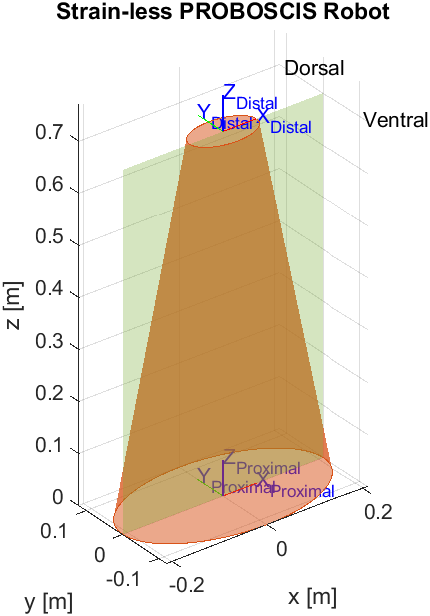
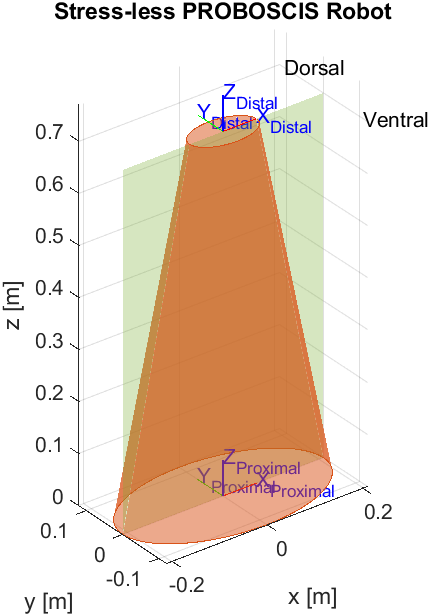
autogen function of actuation matrix

diff --git a/Model/autogen_functions/B_tau_sol1.m b/Model/autogen_functions/B_tau_sol1.m
@@ -1,0 +1,303 @@
+function B_tau = B_tau_sol1(k_x,k_y,k_z,sigma_x,sigma_y,sigma_z,X)
+%B_tau_sol1
+%    B_tau = B_tau_sol1(K_X,K_Y,K_Z,SIGMA_X,SIGMA_Y,SIGMA_Z,X)
+
+%    This function was generated by the Symbolic Math Toolbox version 9.3.
+%    24-Apr-2023 14:50:25
+
+t2 = X.*k_x;
+t3 = X.*k_y;
+t4 = X.^2;
+t5 = X.*2.0e+1;
+t6 = k_z.*2.1e+1;
+t7 = -sigma_y;
+t10 = sqrt(3.0);
+t11 = pi.*4.2e+2;
+t12 = X./5.0;
+t13 = k_x.*8.4e+1;
+t15 = k_z.*3.36e+2;
+t16 = sigma_x.*3.5e+2;
+t17 = X.*pi.*(5.0./7.0);
+t18 = X.*pi.*4.0e+2;
+t21 = X.*k_z.*3.2e+2;
+t23 = X.*(2.0./3.5e+1);
+t24 = X.*(4.0./3.5e+1);
+t25 = k_x.*8.82e+2;
+t26 = k_z.*1.029e+3;
+t27 = k_x.*1.764e+3;
+t28 = k_z.*3.423e+3;
+t29 = sigma_x.*7.0e+2;
+t30 = sigma_z.*7.0e+2;
+t31 = sigma_y.*1.4e+3;
+t32 = sigma_z.*1.4e+3;
+t33 = sigma_y.*4.9e+3;
+t34 = sigma_x.*5.6e+3;
+t35 = X.*pi.*(1.0e+1./7.0);
+t41 = X.*k_z.*9.8e+2;
+t45 = X.*k_z.*3.26e+3;
+t52 = k_y.*9.261e+3;
+t56 = sigma_z.*2.94e+4;
+t63 = X.*k_z.*1.68e+4;
+t65 = X.*sigma_z.*2.8e+4;
+t69 = k_y.*1.5435e+3;
+t73 = X.*sigma_x.*7.0e+4;
+t74 = X.*sigma_y.*1.225e+5;
+t75 = X.*sigma_x.*2.8e+5;
+t76 = X.*sigma_y.*4.9e+5;
+t8 = -t2;
+t9 = k_z.*t5;
+t14 = -t6;
+t19 = t2.*8.0e+1;
+t20 = t3.*3.5e+2;
+t22 = -t11;
+t36 = -t18;
+t38 = -t21;
+t39 = t3.*7.0e+2;
+t40 = t2.*1.4e+3;
+t42 = t2.*1.68e+3;
+t43 = t3.*2.94e+3;
+t44 = t2.*3.36e+3;
+t46 = t2.*4.9e+3;
+t47 = t3.*5.6e+3;
+t48 = cos(t17);
+t49 = sin(t17);
+t50 = -t25;
+t51 = -t28;
+t53 = -t29;
+t54 = -t31;
+t55 = -t33;
+t57 = t5-2.1e+1;
+t59 = -t41;
+t64 = t3.*1.764e+4;
+t66 = cos(t35);
+t67 = sin(t35);
+t68 = t10.*3.5e+1;
+t70 = -t63;
+t72 = -t65;
+t78 = k_y.*t10.*1.47e+2;
+t79 = k_z.*t10.*1.47e+2;
+t80 = -t76;
+t81 = k_z.*t4.*1.6e+4;
+t82 = t10./1.0e+1;
+t84 = t10.*t27;
+t85 = k_y.*t10.*3.087e+3;
+t86 = t3.*t10.*1.4e+2;
+t87 = X.*k_z.*t10.*1.4e+2;
+t88 = X.*t3.*7.14e+4;
+t89 = X.*t2.*1.233e+5;
+t90 = X.*t3.*2.884e+5;
+t91 = X.*t2.*4.916e+5;
+t93 = t10.*2.94e+4;
+t98 = t24-3.0./2.5e+1;
+t99 = t23-3.0./5.0e+1;
+t100 = sigma_y.*t10.*9.8e+3;
+t101 = t10.*t56;
+t102 = t2+t7+4.0./3.5e+1;
+t104 = t3.*t10.*5.88e+3;
+t106 = t10.*(2.1e+1./2.0e+2);
+t112 = t12-2.1e+1./1.0e+2;
+t117 = t2.*t10.*9.8e+3;
+t118 = X.*k_z.*t10.*5.145e+4;
+t138 = X.*t2.*t10.*1.6e+3;
+t139 = X.*t3.*t10.*2.8e+3;
+t156 = k_z.*t4.*t10.*4.9e+4;
+t37 = -t19;
+t58 = -t39;
+t60 = -t43;
+t61 = -t44;
+t62 = -t46;
+t71 = -t64;
+t77 = t48.^2;
+t92 = -t82;
+t94 = t48./5.0;
+t95 = t48.*1.4e+2;
+t96 = t49./5.0;
+t97 = t49.*1.4e+2;
+t105 = -t89;
+t107 = t48.*(4.0./3.5e+1);
+t109 = t48.*5.6e+2;
+t110 = t49.*(4.0./3.5e+1);
+t111 = t49.*5.6e+2;
+t113 = sigma_x.*t48.*2.8e+3;
+t114 = t33.*t48;
+t115 = sigma_x.*t49.*2.8e+3;
+t116 = t33.*t49;
+t120 = abs(t102);
+t123 = t48.*1.47e+4;
+t124 = t49.*1.47e+4;
+t125 = t25.*t66;
+t127 = t25.*t67;
+t129 = t3.*t48.*2.8e+3;
+t130 = t46.*t48;
+t131 = t3.*t49.*2.8e+3;
+t132 = t46.*t49;
+t134 = k_x.*t98;
+t135 = k_x.*t99;
+t136 = k_z.*t98;
+t137 = k_z.*t99;
+t141 = sigma_z.*t48.*-1.47e+4;
+t142 = k_x.*t67.*-8.82e+2;
+t143 = X.*t48.*pi.*1.05e+4;
+t144 = X.*t49.*pi.*1.05e+4;
+t145 = t42.*t66;
+t146 = t43.*t66;
+t147 = X.*k_z.*t48.*8.4e+3;
+t148 = X.*k_z.*t48.*2.5725e+4;
+t150 = X.*sigma_z.*t48.*1.4e+4;
+t151 = t42.*t67;
+t152 = t43.*t67;
+t153 = X.*k_z.*t49.*8.4e+3;
+t154 = X.*k_z.*t49.*2.5725e+4;
+t155 = X.*sigma_z.*t49.*1.4e+4;
+t157 = t66.*t69;
+t158 = t67.*t69;
+t161 = t2.*t66.*-1.68e+3;
+t162 = t3.*t66.*-2.94e+3;
+t165 = t2.*t67.*-1.68e+3;
+t166 = t3.*t67.*-2.94e+3;
+t172 = k_z.*t4.*t48.*8.0e+3;
+t173 = k_z.*t4.*t49.*8.0e+3;
+t174 = k_y.*t66.*(-1.5435e+3);
+t175 = t4.*t48.*pi.*1.0e+4;
+t176 = t4.*t49.*pi.*1.0e+4;
+t177 = X.*t2.*t66.*8.0e+2;
+t179 = X.*t3.*t66.*1.4e+3;
+t181 = k_z.*t4.*t48.*2.45e+4;
+t182 = X.*t2.*t67.*8.0e+2;
+t183 = X.*t3.*t67.*1.4e+3;
+t185 = k_z.*t4.*t49.*2.45e+4;
+t186 = t48.*t57.*pi.*5.0;
+t187 = t49.*t57.*pi.*5.0;
+t188 = k_x.*t48.*t57.*4.0;
+t189 = k_y.*t48.*t57.*7.0;
+t190 = k_z.*t48.*t57.*4.0;
+t191 = k_x.*t49.*t57.*4.0;
+t192 = k_y.*t49.*t57.*7.0;
+t193 = k_z.*t49.*t57.*4.0;
+t197 = t48.*t57.*pi.*2.0e+1;
+t199 = t49.*t57.*pi.*2.0e+1;
+t202 = k_z.*t48.*t57.*4.9e+1;
+t205 = k_z.*t49.*t57.*4.9e+1;
+t216 = k_y.*t48.*t112;
+t217 = k_z.*t48.*t112;
+t218 = k_y.*t49.*t112;
+t219 = k_z.*t49.*t112;
+t223 = t48.*t98.*pi.*(5.0./7.0);
+t224 = t49.*t98.*pi.*(5.0./7.0);
+t225 = t48.*t112.*pi.*(5.0./7.0);
+t227 = t49.*t112.*pi.*(5.0./7.0);
+t228 = -k_y.*(t106-(X.*t10)./1.0e+1);
+t229 = -k_z.*(t106-(X.*t10)./1.0e+1);
+t231 = k_y.*(t106-(X.*t10)./1.0e+1);
+t108 = -t95;
+t122 = -t109;
+t126 = sigma_z.*t123;
+t128 = sigma_z.*t124;
+t133 = -t123;
+t140 = t120.^2;
+t149 = k_z.*t77.*6.93e+2;
+t159 = -t143;
+t160 = -t144;
+t164 = -t150;
+t167 = -t154;
+t168 = -t155;
+t169 = -t134;
+t170 = -t135;
+t171 = X.*k_z.*t77.*6.6e+2;
+t180 = -t172;
+t184 = -t173;
+t194 = -t176;
+t195 = -t179;
+t196 = -t182;
+t198 = -t187;
+t200 = -t189;
+t201 = -t190;
+t203 = -t192;
+t204 = -t193;
+t207 = sigma_x+t3+t136;
+t210 = -t199;
+t211 = -t202;
+t212 = t48.*t134;
+t213 = t48.*t136;
+t214 = t49.*t134;
+t215 = t49.*t136;
+t230 = sigma_x+t3+t82+t137;
+t232 = sigma_x+t3+t92+t137;
+t237 = t2+t7+t229+2.0./3.5e+1;
+t238 = sigma_y+t8+t229-2.0./3.5e+1;
+t245 = t30+t188+t192+7.0e+2;
+t246 = t30+t189+t191+7.0e+2;
+t263 = t53+t58+t97+t186+t190;
+t270 = t33+t62+t111+t197+t202;
+t163 = -t149;
+t178 = -t171;
+t206 = sigma_z+t169+1.0;
+t209 = abs(t207);
+t222 = -t215;
+t233 = abs(t230);
+t234 = abs(t232);
+t239 = abs(t238);
+t240 = abs(t237);
+t243 = sigma_z+t170+t228+1.0;
+t247 = sigma_z+t170+t231+1.0;
+t248 = t30+t188+t203+7.0e+2;
+t249 = t30+t191+t200+7.0e+2;
+t251 = t245.^2;
+t252 = t246.^2;
+t262 = t29+t39+t97+t186+t201;
+t264 = t29+t39+t108+t187+t204;
+t265 = t29+t39+t95+t198+t204;
+t267 = t263.^2;
+t272 = t33+t62+t111+t197+t211;
+t273 = t46+t55+t122+t199+t205;
+t274 = t33+t62+t109+t205+t210;
+t275 = t270.^2;
+t208 = abs(t206);
+t221 = t209.^2;
+t235 = t233.^2;
+t236 = t234.^2;
+t241 = t240.^2;
+t242 = t239.^2;
+t244 = abs(t243);
+t250 = abs(t247);
+t254 = t248.^2;
+t255 = t249.^2;
+t257 = t251.*4.9e+1;
+t258 = t252.*4.9e+1;
+t266 = t262.^2;
+t268 = t264.^2;
+t269 = t265.^2;
+t277 = t272.^2;
+t278 = t273.^2;
+t279 = t274.^2;
+t280 = t267.*4.9e+1;
+t220 = t208.^2;
+t253 = t244.^2;
+t256 = t250.^2;
+t259 = t254.*4.9e+1;
+t260 = t255.*4.9e+1;
+t276 = t266.*4.9e+1;
+t281 = t268.*4.9e+1;
+t282 = t269.*4.9e+1;
+t289 = t257+t278+t280;
+t261 = t140+t220+t221;
+t283 = t236+t241+t253;
+t284 = t235+t242+t256;
+t287 = t258+t277+t281;
+t288 = t260+t275+t282;
+t290 = t259+t276+t279;
+t293 = 1.0./sqrt(t289);
+t271 = 1.0./sqrt(t261);
+t285 = 1.0./sqrt(t283);
+t286 = 1.0./sqrt(t284);
+t291 = 1.0./sqrt(t287);
+t292 = 1.0./sqrt(t288);
+t294 = 1.0./sqrt(t290);
+mt1 = [(t271.*(k_x.*4.41e+2+sigma_z.*3.675e+3-t2.*8.4e+2-X.*sigma_y.*3.0625e+4-X.*sigma_z.*3.5e+3+X.*t2.*3.1025e+4+3.675e+3))./3.0625e+4,X.*t207.*t271,t98.*t207.*t271,t207.*t271,-t102.*t271,t206.*t271,(t286.*(t27+t56+t61+t72+t80+t85+t91-t104+t118+t139-t156+2.94e+4))./4.9e+5,(t286.*(t52+t70+t71+t75+t81+t84+t90+t93+t101+t138-t2.*t10.*3.36e+3-X.*sigma_z.*t10.*2.8e+4))./2.8e+5];
+mt2 = [(t57.*1.0./sqrt((t9+t14+t16+t20+t68).^2.*1.6e+1+(t13+t32+t37+t78-t86+1.4e+3).^2+(t40+t54+t79-t87+8.0e+1).^2).*(t34+t45+t47+t51+t100-t117))./1.4e+3,t230.*t286,t238.*t286,t247.*t286,(t285.*(t27+t56+t61+t72+t80-t85+t91+t104-t118-t139+t156+2.94e+4))./4.9e+5,t285.*(-t52+t63+t64-t75-t81-t90+t93+t101+t138+k_x.*t10.*1.764e+3+t10.*t61-X.*sigma_z.*t10.*2.8e+4).*(-3.571428571428571e-6)];
+mt3 = [(t57.*1.0./sqrt((t9+t14+t16+t20-t68).^2.*1.6e+1+(t13+t32+t37-t78+t86+1.4e+3).^2+(t40+t54-t79+t87+8.0e+1).^2).*(t34+t45+t47+t51-t100+t117))./1.4e+3,t232.*t285,-t237.*t285,t243.*t285,t291.*(t42+t50+t74+t105+t124+t125+t128+t148+t152+t159+t161+t168+t175+t177-t181-t183-k_y.*t67.*1.5435e+3).*(-1.0./2.5e+1),t291.*(t60+t69+t73+t88+t127+t133+t141+t150+t153+t157+t160+t162+t165+t176+t179+t182+t184).*(7.0./1.0e+2),-t112.*t291.*(t15+t18+t22+t38+t114+t115+t131+t149+t178-t2.*t48.*4.9e+3),t291.*(sigma_x+t3-t94+t222+t227).*4.9e+3,t291.*(sigma_y+t8+t110-t217+t223).*4.9e+3];
+mt4 = [t291.*(sigma_z+t214+t216+1.0).*4.9e+3,t294.*(t42+t50+t74+t105+t123+t126+t144+t145+t158+t164+t166+t167-t177+t183+t185+t194-k_x.*t66.*8.82e+2).*(-1.0./2.5e+1),t294.*(t60+t69+t73+t88+t124+t128+t142+t146+t147+t151+t159+t168+t174+t175+t180+t195+t196).*(7.0./1.0e+2),-t112.*t294.*(t18+t22+t26+t59+t113+t129+t132+t163+t171-sigma_y.*t49.*4.9e+3),t294.*(sigma_x+t3+t96-t213+t225).*4.9e+3,t294.*(sigma_y+t8+t107+t219-t224).*4.9e+3,t294.*(sigma_z+t212-t218+1.0).*4.9e+3,t292.*(t42+t50+t74+t105+t124+t125+t128-t148+t158+t159+t161+t166+t168+t175+t177+t181+t183).*(-1.0./2.5e+1),t292.*(t60+t69+t73+t88+t123+t126+t142+t144+t151+t153+t157+t162+t164+t179+t184+t194+t196).*(7.0./1.0e+2)];
+mt5 = [-t112.*t292.*(t11+t15+t36+t38+t115+t130+t131+t149+t178-sigma_y.*t48.*4.9e+3),t292.*(sigma_x+t3+t94+t222-t227).*4.9e+3,t292.*(sigma_y+t8+t110+t217+t223).*4.9e+3,t292.*(sigma_z+t214-t216+1.0).*4.9e+3,(t293.*(t25-t42-t74+t89+t125+t133+t141+t150+t158+t160+t161+t166+t167+t176+t177+t183+t185))./2.5e+1,t293.*(t60+t69+t73+t88-t124+t127+t143+t146+t147+t155+t165+t174-t175+t180+t182+t195-sigma_z.*t49.*1.47e+4).*(7.0./1.0e+2),-t112.*t293.*(t11+t26+t36+t59+t113+t116+t129+t163+t171-t2.*t49.*4.9e+3),t293.*(-sigma_x-t3+t96+t213+t225).*-4.9e+3,t293.*(t2+t7-t107+t219+t224).*-4.9e+3];
+mt6 = [t293.*(sigma_z+t212+t218+1.0).*4.9e+3];
+B_tau = reshape([mt1,mt2,mt3,mt4,mt5,mt6],6,7);
+end

diff --git a/Model/actuation_analysis.m b/Model/actuation_analysis.m
@@ -1,4 +1,4 @@
-%%%%%%%%%%% testing Plot Functions
+%%%%%%%%%%% PROBOSCIS Actuation Analysis %%%%%%%%%%%
 clear all
 close all
 clc
@@ -97,13 +97,12 @@ plotRobotq0(geom_robot, actuation_path, n_points, cable_class, false)
 % %% Plot Robot
 % plotRobotq0(geom_robot, actuation_path, n_points, cable_class, true)
 
-%% Symbolic Actuation Matrix
+%% Analysis of Actuation Matrix
 % syms k_x k_y k_z sigma_x sigma_y sigma_z real
 % xi = [k_x k_y k_z sigma_x sigma_y sigma_z]';
 % B_tau = simplify(actuationMatrix(xi, actuation_path, X));
-% disp("Actuation Matrix Expression:")
-% B_tau
-
+% 
+% % matlabFunction(B_tau, "File", "B_tau_sol1", "Vars", [xi; X], "Outputs", {'B_tau'});
 
 %% Evaluation of Strain Modes
 single_CS = true;
@@ -130,7 +129,18 @@ else
     legend("Bending_x", "Bending_y", "Torsion_z", "Shear_x", "Shear_y", "Stretch_z");
 
     prettyStrainPlot(xi(:, end))
+    %% Extract polynomial/sinusoidal basis
+    % figure
+    % for j=1:6 % strain mdoes
+    %     p{j} = polyfit(arc_length, double(xi(j, :)), 3)
+    %     hold on
+    %     plot(arc_length, xi(j, :), 'ro')
+    %     plot(arc_length, polyval(p{j}, arc_length))
+    %     hold off
+    % end
+    % grid on
 end
+
 %% Util Functions
 function points = ellipticHelix(geom_struct, X, theta, phase)
     points = [geom_struct.ax*cos(theta*(X/geom_struct.L) + phase); geom_struct.bx*sin(theta*(X/geom_struct.L) + phase); X];

diff --git a/Model/functions/plotRobotq0.m b/Model/functions/plotRobotq0.m
@@ -100,7 +100,7 @@ grid on
 xlabel("x [m]")
 ylabel("y [m]")
 zlabel("z [m]")
-title("Strain-less PROBOSCIS Robot")
+title("Stress-less PROBOSCIS Robot")
 axis equal
 hold off
 
